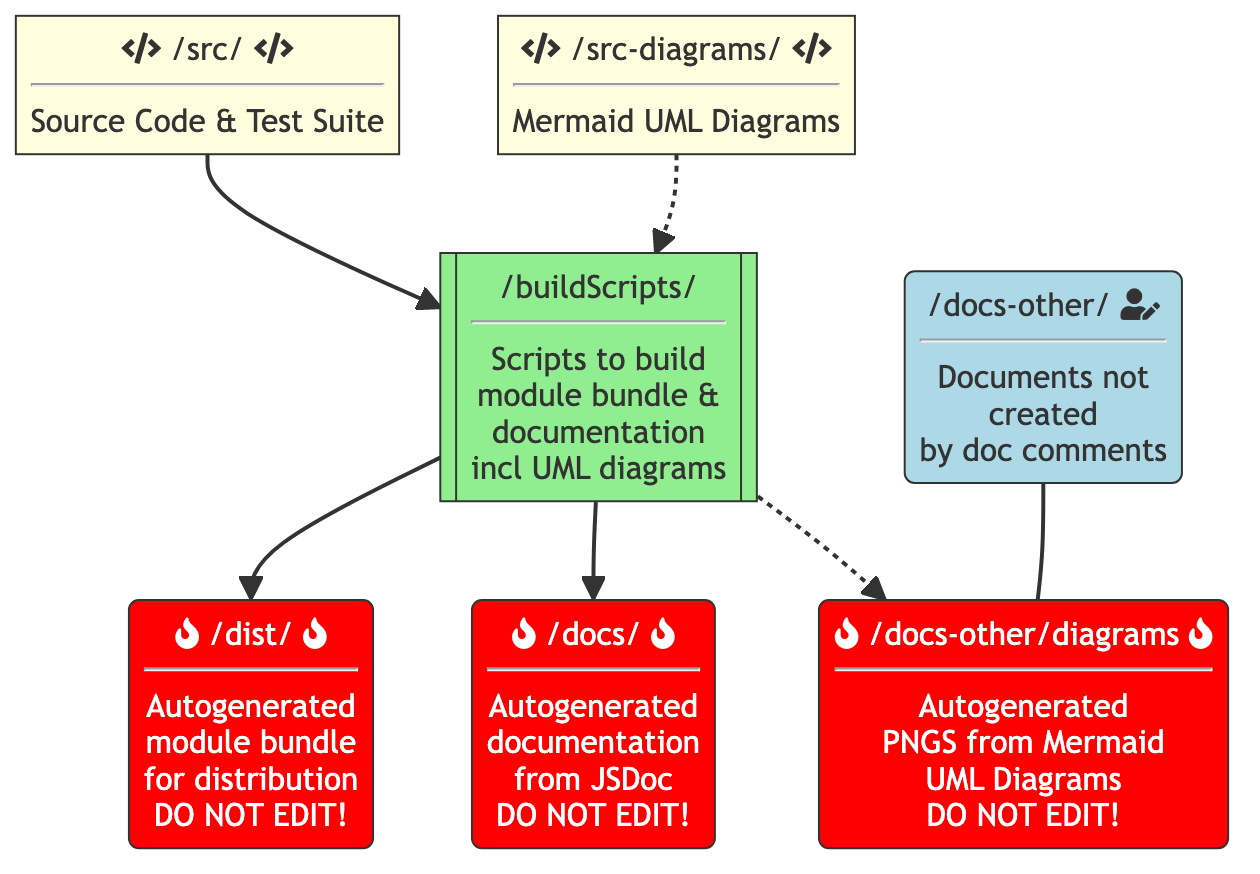
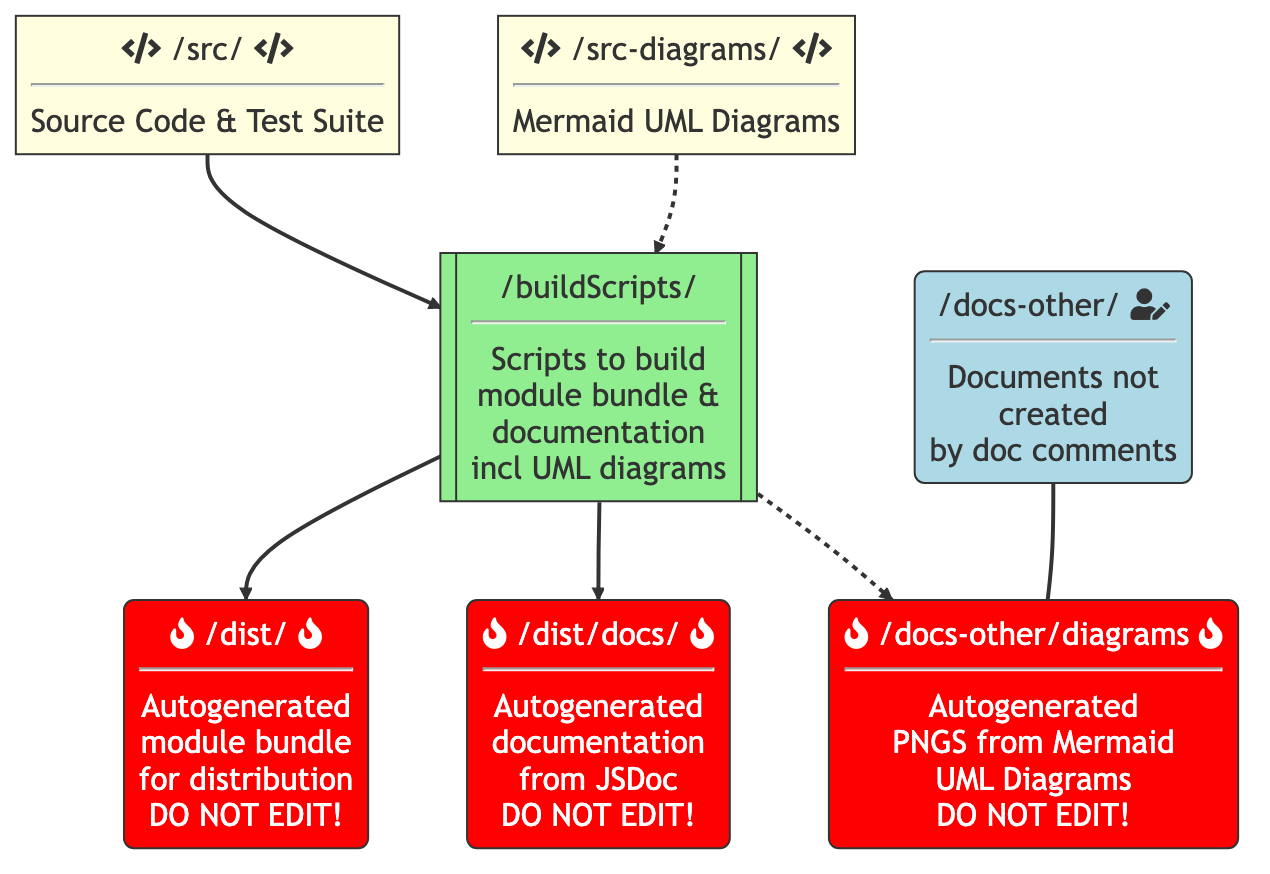
Fix: #35 remove docs directory and update docs diagram

diff --git a/src-diagrams/XKPasswdJS-docs-diagram.mmd.md b/src-diagrams/XKPasswdJS-docs-diagram.mmd.md
@@ -2,26 +2,26 @@
 %%{ init: { 'flowchart': { 'curve': 'basis' } } }%%
 
 flowchart TD
-	src["fa:fa-code /src/ fa:fa-code<br><hr>Source Code & Test Suite"] 
+	src["fa:fa-code /src/ fa:fa-code<br><hr>Source Code & Test Suite"]
 	--> buildScripts[["/buildScripts/<br><hr>Scripts to build<br>module bundle &<br>documentation<br>incl UML diagrams"]]
-	--> dist("fa:fa-fire /dist/ fa:fa-fire<br><hr>Autogenerated <br>module bundle<br>for distribution<br>DO NOT EDIT!") & docs("fa:fa-fire /docs/ fa:fa-fire<br><hr>Autogenerated<br>documentation<br>from JSDoc<br>DO NOT EDIT!")
-	
-	srcDiagrams["fa:fa-code /src-diagrams/ fa:fa-code<br><hr>Mermaid UML Diagrams"] 
-	.-> buildScripts 
+	--> dist("fa:fa-fire /dist/ fa:fa-fire<br><hr>Autogenerated <br>module bundle<br>for distribution<br>DO NOT EDIT!") & docs("fa:fa-fire /dist/docs/ fa:fa-fire<br><hr>Autogenerated<br>documentation<br>from JSDoc<br>DO NOT EDIT!")
+
+	srcDiagrams["fa:fa-code /src-diagrams/ fa:fa-code<br><hr>Mermaid UML Diagrams"]
+	.-> buildScripts
 	.-> docsOtherDiagrams("fa:fa-fire /docs-other/diagrams fa:fa-fire <br><hr>Autogenerated<br>PNGS from Mermaid<br>UML Diagrams<br>DO NOT EDIT!")
-	
+
 	docsOther("/docs-other/ fa:fa-user-edit<br><hr>Documents not<br>created<br> by doc comments") --- docsOtherDiagrams
-	
+
 	classDef default stroke:#333
 	classDef doNotEdit color:#ffffff, fill:#ff0000
 	classDef inputSrc fill: #FFFFE0
-	
-	style buildScripts fill:#90EE90 
+
+	style buildScripts fill:#90EE90
 	style docsOther fill: #ADD8E6
-	
+
 	class src inputSrc;
 	class dist doNotEdit;
-	class docs doNotEdit; 
+	class docs doNotEdit;
 	class srcDiagrams inputSrc;
 	class docsOtherDiagrams doNotEdit;
 ```
